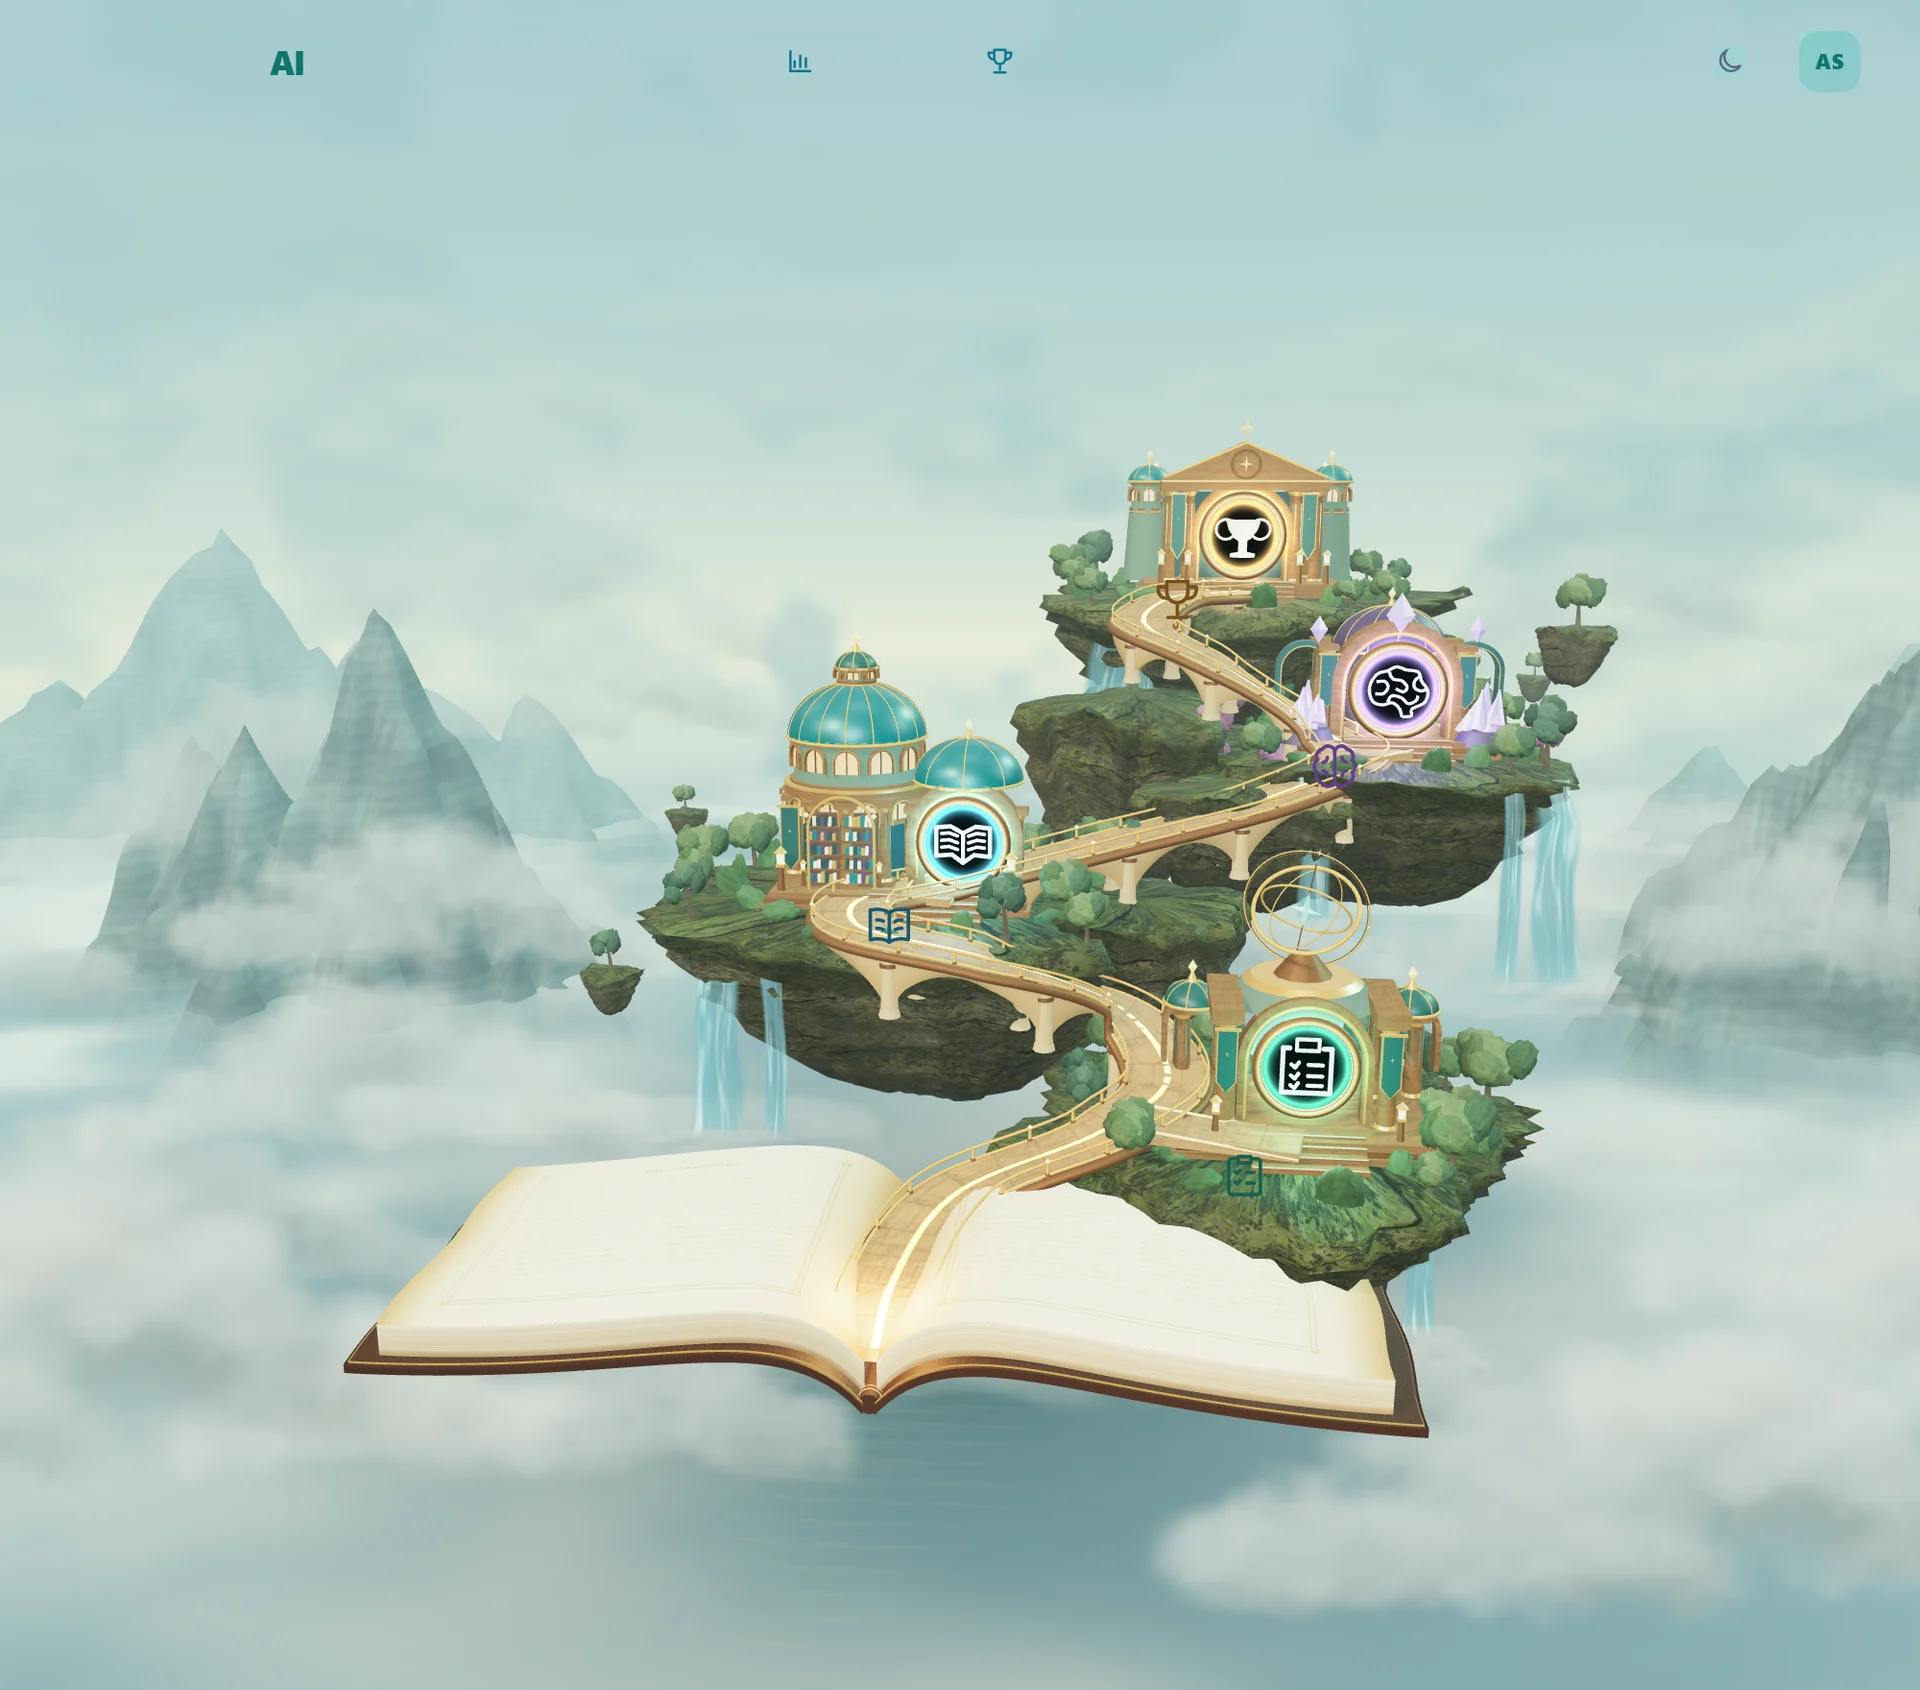
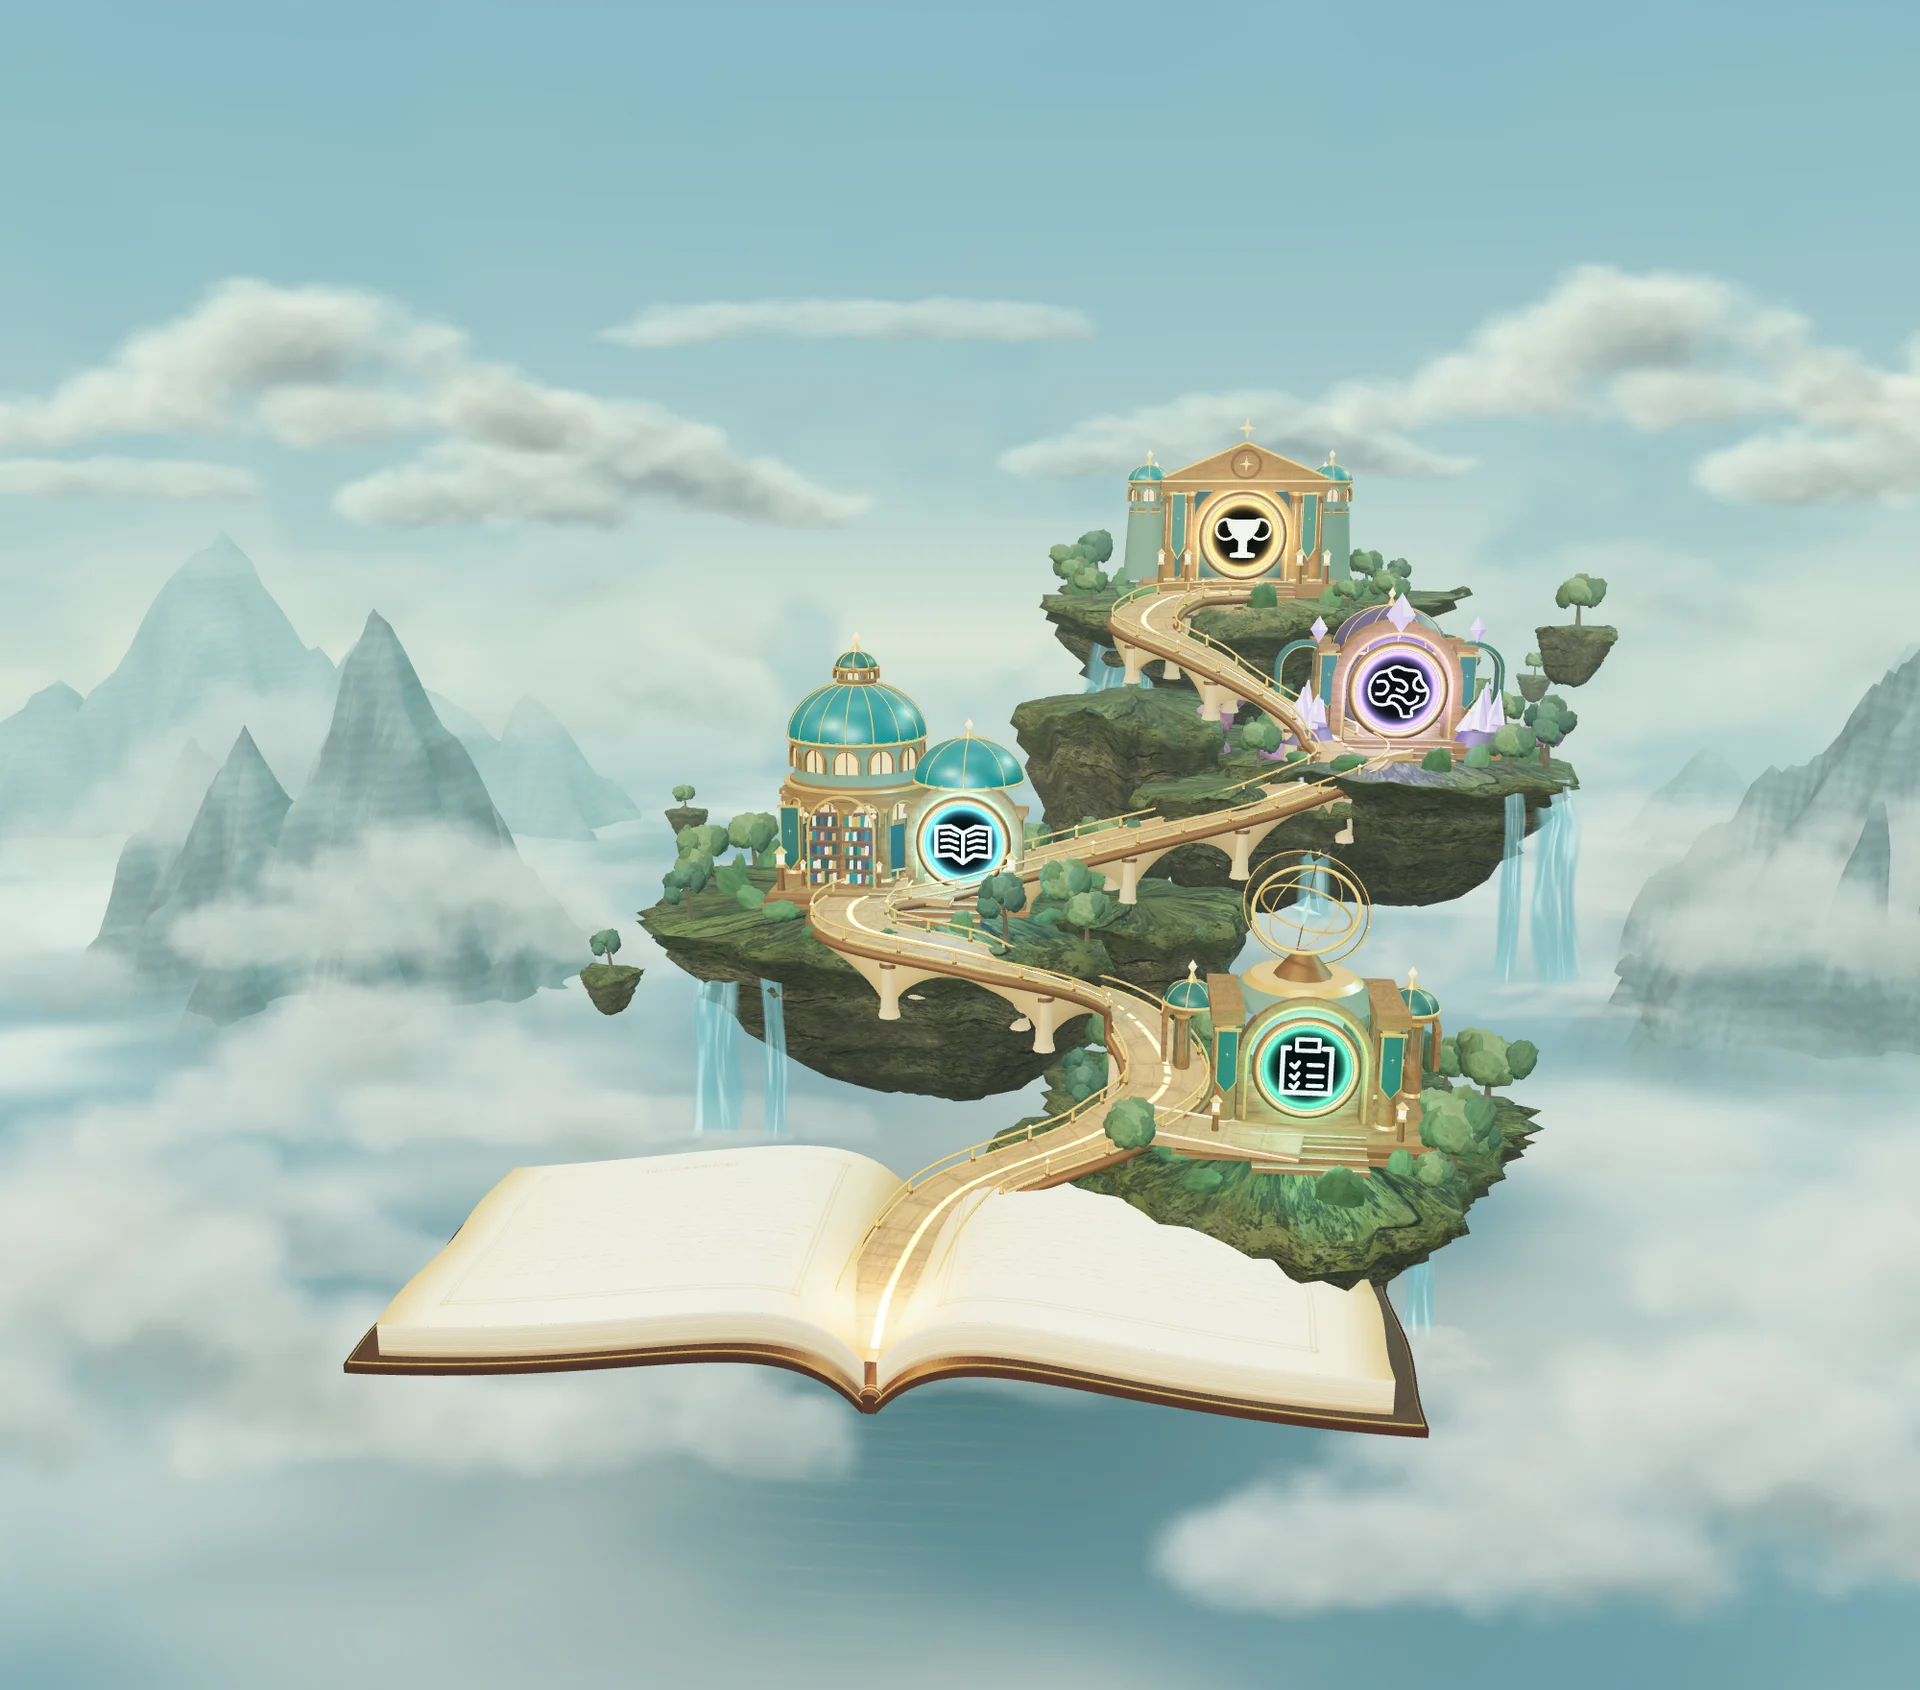
Make upper Atlas clouds visible in bright and dark themes

diff --git a/features/atlas/scene/clouds.ts b/features/atlas/scene/clouds.ts
@@ -4,12 +4,39 @@ import type { Point } from "./layout";
 type CloudShape = "ridge" | "crown" | "veil";
 type CloudBank = [shape: CloudShape, position: Point, width: number, height: number, opacity: number];
 
-const SUNLIT_CLOUD = 0xfff8eb;
-const MOONLIT_CLOUD = 0xe5f0ff;
+const CLOUD_LIGHT = {
+  day: { valley: 0xfff8eb, upper: 0xfffaf1, density: 1.50 },
+  night: { valley: 0xe5f0ff, upper: 0x91b2c2, density: 1.55 },
+};
 
-function cloudOpacity(opacity: number, daylight: boolean) {
-  return 1 - Math.pow(1 - opacity, daylight ? 1.22 : 1.55);
+function lightCloud(material: T.SpriteMaterial, opacity: number, upper: boolean, daylight: boolean) {
+  const light = daylight ? CLOUD_LIGHT.day : CLOUD_LIGHT.night;
+  material.color.setHex(upper ? light.upper : light.valley);
+  material.opacity = 1 - Math.pow(1 - opacity, light.density);
 }
+
+// The upper banks have their own distant lighting. Applying the valley fog
+// again at these depths flattens the sunlit caps into the surrounding sky.
+const WIDE_UPPER_BANKS: CloudBank[] = [
+  ["crown", [-45, 17.4, -57], 40, 14, .78],
+  ["ridge", [-28, 12.2, -62], 35, 11.2, .57],
+  ["veil", [-15, 21.2, -68], 34, 7.8, .48],
+  ["ridge", [9, 14.1, -66], 31, 7.9, .46],
+  ["crown", [30, 18.2, -64], 38, 13.5, .77],
+  ["ridge", [48, 13.9, -57], 37, 11.8, .71],
+  ["crown", [58, 20.6, -63], 34, 13, .64],
+  ["veil", [-58, 12, -51], 31, 6.8, .51],
+];
+
+const PORTRAIT_UPPER_BANKS: CloudBank[] = [
+  ["crown", [-25, 35, -40], 33, 13.3, .75],
+  ["ridge", [28, 36.5, -49], 36, 11.5, .72],
+  ["veil", [-7, 42, -51], 29, 8.2, .48],
+  ["crown", [-17, 20, -37], 23, 9.6, .64],
+  ["ridge", [19, 24, -42], 26, 9.8, .59],
+  ["veil", [-2, 24.5, -52], 24, 6.9, .46],
+  ["crown", [-28, 22.6, -33], 26, 10.5, .62],
+];
 
 // Loose banks bridge the distant ridges and the floating shelves. Their
 // irregular heights and intervening gaps keep the waterfalls and gates legible.
@@ -36,13 +63,6 @@ const VALLEY_BANKS: CloudBank[] = [
 ];
 
 const WIDE_BANKS: CloudBank[] = [
-  ["crown", [-39, 17.8, -55], 34, 11, .37],
-  ["veil", [-15, 21.5, -63], 32, 6.8, .34],
-  ["ridge", [17, 18.1, -62], 28, 7.8, .33],
-  ["crown", [43, 19.2, -57], 33, 10, .39],
-  ["veil", [-55, 13.7, -53], 28, 4.9, .3],
-  ["ridge", [55, 12.4, -53], 24, 7.2, .28],
-  ["veil", [39, 7.4, -40], 27, 4.6, .3],
   ["crown", [-40, -1.9, -13], 25, 8.2, .61],
   ["ridge", [-19, -4.8, 4.2], 24, 9.7, .83],
   ["crown", [-9.8, -5.8, 3.1], 16, 7.2, .62],
@@ -63,13 +83,6 @@ const OUTER_BANKS: CloudBank[] = [
 ];
 
 const PORTRAIT_BANKS: CloudBank[] = [
-  ["crown", [-27, 36, -45], 29, 9.2, .49],
-  ["ridge", [30, 37, -52], 34, 7.8, .45],
-  ["crown", [-17, 18.2, -37], 19, 8.1, .41],
-  ["ridge", [14, 22.1, -42], 22, 6.9, .38],
-  ["veil", [-2, 25.6, -49], 23, 6.2, .31],
-  ["veil", [-25, 28.5, -27], 16, 4.3, .34],
-  ["veil", [25, 23.5, -26], 17, 4.6, .40],
   ["crown", [-13.6, -.4, -8.6], 12.4, 6.2, .49],
   ["ridge", [13.4, .6, -9], 12.8, 5.6, .48],
   ["ridge", [-11, -5.1, 5.8], 13.1, 5.5, .75],
@@ -125,7 +138,7 @@ function cloudDeck(parent: T.Object3D) {
         vec3 night = mix(vec3(.095, .22, .255), vec3(.60, .73, .79), shade);
         vec3 day = mix(vec3(.44, .64, .66), vec3(.93, .95, .91), shade);
         float fade = 1. - smoothstep(51., 73., length(field * vec2(.91, 1.)));
-        float coverage = mix(.27 + density * .55, .235 + density * .52, daylight) * fade;
+        float coverage = mix(.27 + density * .55, .25 + density * .54, daylight) * fade;
         gl_FragColor = sRGBTransferEOTF(vec4(mix(night, day, daylight), coverage));
         #include <colorspace_fragment>
       }
@@ -154,7 +167,7 @@ export function clouds(group: T.Object3D, compact: boolean, redraw: () => void) 
   // turbulent 3D density field. Spatially separated cards preserve parallax
   // without ray marching full-screen pixels on low-power devices.
   function cloudMap(shape: CloudShape) {
-    const sprites: { material: T.SpriteMaterial; opacity: number }[] = [];
+    const sprites: { material: T.SpriteMaterial; opacity: number; upper: boolean }[] = [];
     let loaded = false;
     let settle!: () => void;
     textures.push(new Promise<void>((resolve) => { settle = resolve; }));
@@ -167,12 +180,13 @@ export function clouds(group: T.Object3D, compact: boolean, redraw: () => void) 
     map.colorSpace = T.SRGBColorSpace;
     return {
       sprites,
-      sprite(opacity: number) {
+      sprite(opacity: number, upper: boolean) {
         const material = new T.SpriteMaterial({
           map, transparent: true, depthWrite: false, alphaTest: .008,
-          visible: loaded, opacity: cloudOpacity(opacity, daylight), color: daylight ? SUNLIT_CLOUD : MOONLIT_CLOUD,
+          visible: loaded, fog: !upper, toneMapped: !upper,
         });
-        sprites.push({ material, opacity });
+        lightCloud(material, opacity, upper, daylight);
+        sprites.push({ material, opacity, upper });
         return new T.Sprite(material);
       },
     };
@@ -180,8 +194,8 @@ export function clouds(group: T.Object3D, compact: boolean, redraw: () => void) 
 
   const maps = { ridge: cloudMap("ridge"), crown: cloudMap("crown"), veil: cloudMap("veil") };
 
-  function place([shape, position, width, height, opacity]: CloudBank, parent = group) {
-    const sprite = maps[shape].sprite(opacity);
+  function place([shape, position, width, height, opacity]: CloudBank, parent = group, upper = false) {
+    const sprite = maps[shape].sprite(opacity, upper);
     sprite.position.set(...position);
     sprite.scale.set(width, height, 1);
     parent.add(sprite);
@@ -191,8 +205,10 @@ export function clouds(group: T.Object3D, compact: boolean, redraw: () => void) 
   const drifting = [
     ...VALLEY_BANKS.map((bank) => place(bank)),
     ...WIDE_BANKS.map((bank) => place(bank, wide)),
+    ...WIDE_UPPER_BANKS.map((bank) => place(bank, wide, true)),
     ...(compact ? [] : OUTER_BANKS.map((bank) => place(bank, wide))),
     ...PORTRAIT_BANKS.map((bank) => place(bank, portrait)),
+    ...PORTRAIT_UPPER_BANKS.map((bank) => place(bank, portrait, true)),
   ].map((sprite, index) => {
     const phase = index * 1.83;
     const amplitude = .17 + (index % 4) * .095;
@@ -205,9 +221,8 @@ export function clouds(group: T.Object3D, compact: boolean, redraw: () => void) 
       daylight = light;
       lowClouds.daylight.value = Number(light);
       for (const { sprites } of Object.values(maps)) {
-        for (const { material, opacity } of sprites) {
-          material.color.setHex(light ? SUNLIT_CLOUD : MOONLIT_CLOUD);
-          material.opacity = cloudOpacity(opacity, light);
+        for (const { material, opacity, upper } of sprites) {
+          lightCloud(material, opacity, upper, light);
         }
       }
     },

diff --git a/features/atlas/scene/atmosphere.ts b/features/atlas/scene/atmosphere.ts
@@ -31,8 +31,8 @@ const skyFragment = `
     float aurora=exp(-abs(direction.y+.10-direction.x*.37)*5.);
     float veil=smoothstep(.76,1.25,haze)*(.21+aurora*.47);
     color=mix(color,vec3(.066,.37,.32),veil);
-    vec3 day=mix(vec3(.63,.79,.81),vec3(.94,.94,.86),horizon*.88);
-    day=mix(day,vec3(.54,.73,.75),veil*.65);
+    vec3 day=mix(vec3(.49,.70,.76),vec3(.94,.94,.86),horizon*.82);
+    day=mix(day,vec3(.50,.71,.75),veil*.58);
     gl_FragColor=sRGBTransferEOTF(vec4(mix(color,day,daylight),1.));
     #include <colorspace_fragment>
   }
@@ -87,6 +87,7 @@ export function atmosphere(parent: T.Scene, compact: boolean, redraw: () => void
   const starField = new T.Points(skyPoints, new T.PointsMaterial({
     size: .069, transparent: true, vertexColors: true, opacity: .72, depthWrite: false, fog: false,
   }));
+  starField.renderOrder = -3;
   group.add(starField);
   return {
     daylight,
